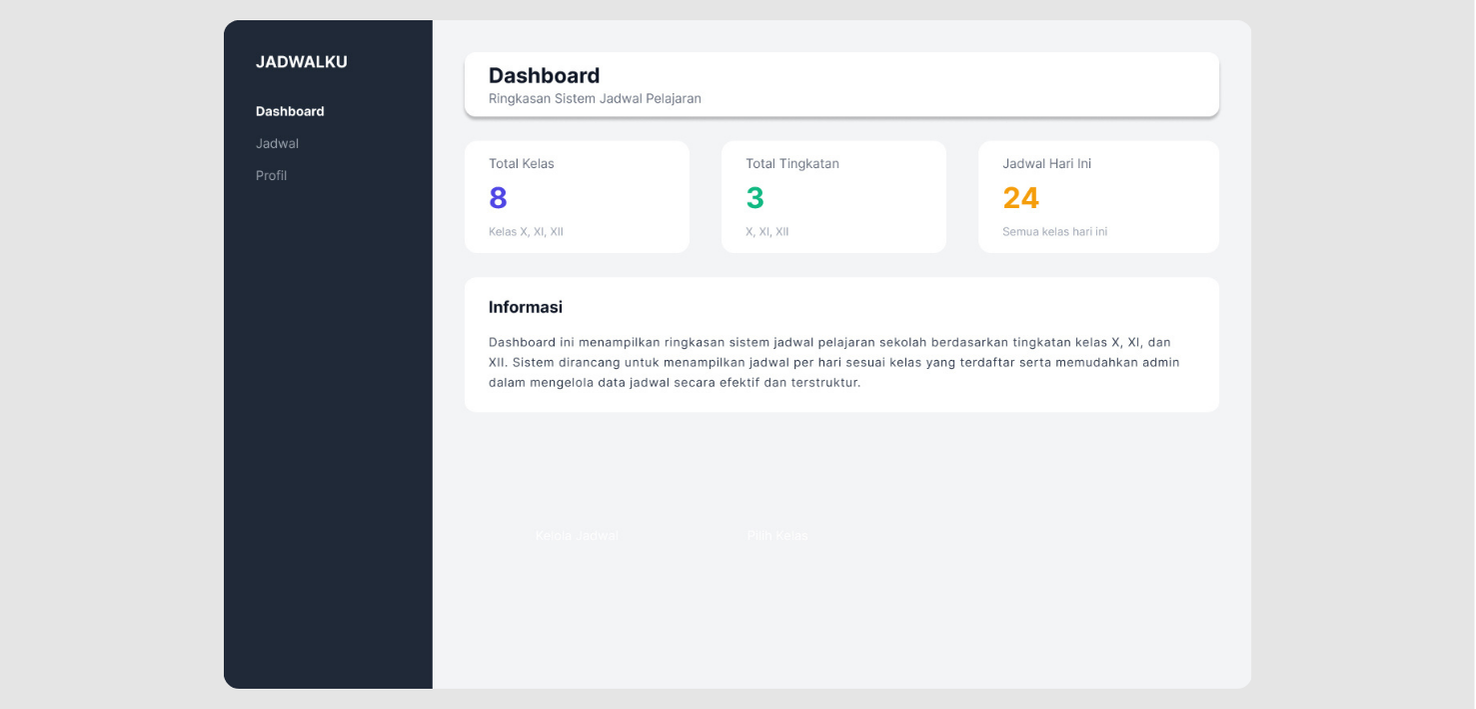
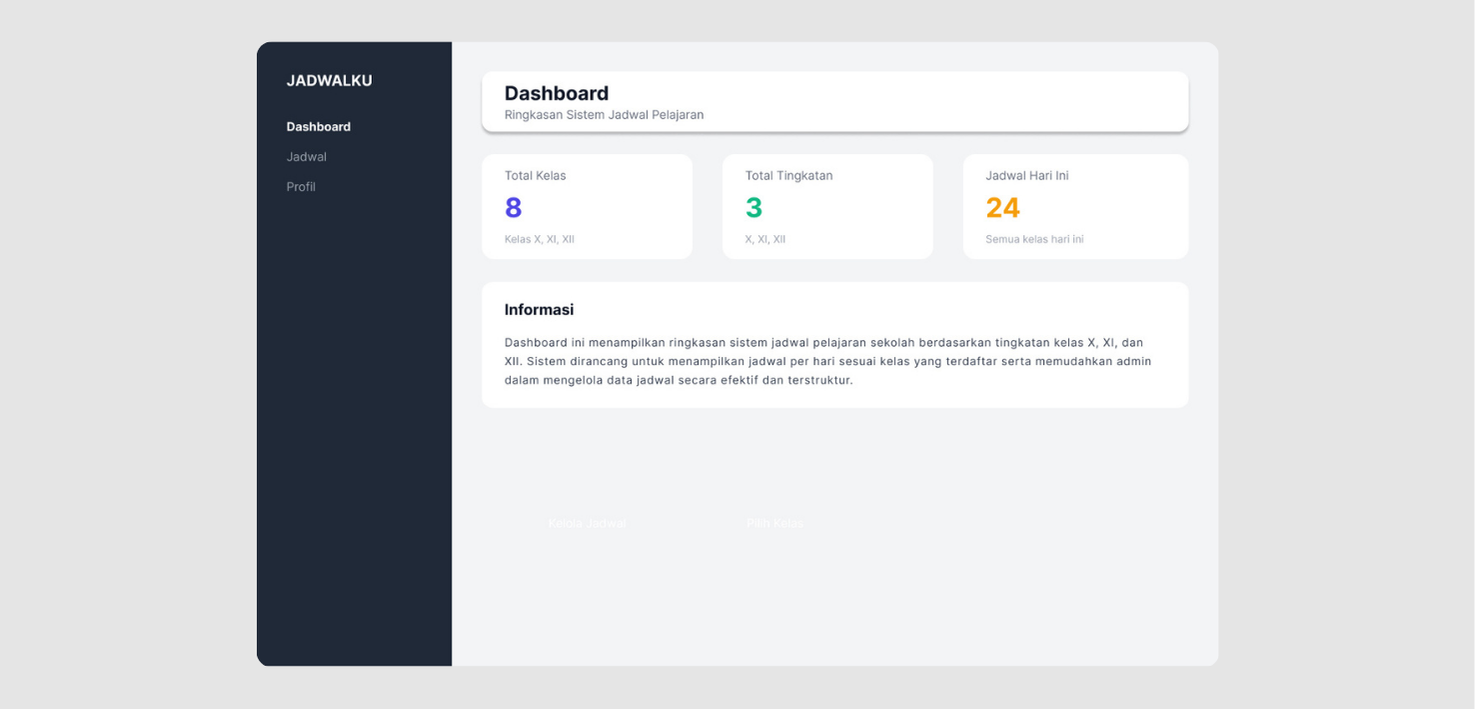
update hampir final

Changed region(s): [[0.1247, 0.031, 0.8103, 0.9929]]

diff --git a/index.html b/index.html
@@ -40,7 +40,7 @@
                         Halo, Saya <br> <span class="text-teal">Azmi Fauzil Adhim</span>
                     </h1>
                     <p class="fs-6 fs-md-5 text-muted">
-                        Siswa SMKS Mahaputra Cerdas Utama | <br>
+                        Siswa SMKS Mahaputra Cerdas Utama <br>
                         Jurusan Pengembangan Perangkat Lunak dan GIM (PPLG)
                     </p>
                 </div>
@@ -160,7 +160,7 @@
                 <div class="col-md-6">
                     <div class="project-card card-custom">
                         <div class="project-img-container p-0 overflow-hidden">
-                            <img src="dokProject/ecomeer.png" class="w-100 h-100 object-fit-cover" alt="E-Commerce"> 
+                            <img src="dokProject/ecomer.png" class="w-100 h-100 object-fit-cover" alt="E-Commerce"> 
                         </div>
                         <div class="project-content">
                             <h3 class="project-title">Desain Tampilan Website E-Commerce</h3>
@@ -171,7 +171,7 @@
                             <div class="tech-stack">
                                 <span class="tech-badge">UI/UX</span>
                             </div>
-                            <a href="LINK_WEBSITE_KAMU_DISINI" target="_blank" class="btn-view-project">
+                            <a href="https://www.figma.com/proto/yOlDAXEv6NXbb8kEjgWzmT/Tugas-Perancangan-UI----Azmi-Fauzil?node-id=2099-37&t=9BH8NqxHq38BFxPt-1" target="_blank" class="btn-view-project">
                                 Lihat Prototype <i class="fas fa-external-link-alt ms-1"></i>
                             </a>
                         </div>
@@ -181,7 +181,7 @@
                 <div class="col-md-6">
                     <div class="project-card card-custom">
                         <div class="project-img-container p-0 overflow-hidden">
-                            <img src="dokProject/pb.png" class="w-100 h-100 object-fit-cover" alt="Portfolio"> 
+                            <img src="dokProject/webstatis.png" class="w-100 h-100 object-fit-cover" alt="Portfolio"> 
                         </div>
                         <div class="project-content">
                             <h3 class="project-title">Website Statis</h3>
@@ -193,7 +193,7 @@
                                 <span class="tech-badge">HTML</span>
                                 <span class="tech-badge">Bootstrap</span>
                             </div>
-                            <a href="LINK_WEBSITE_KAMU_DISINI" target="_blank" class="btn-view-project">
+                            <a href="https://azmifauzil.github.io/Portofolio-bootsrapAzmiFA/" target="_blank" class="btn-view-project">
                                 Lihat Website <i class="fas fa-external-link-alt ms-1"></i>
                             </a>
                         </div>
@@ -203,7 +203,7 @@
                 <div class="col-md-6">
                     <div class="project-card card-custom">
                         <div class="project-img-container p-0 overflow-hidden">
-                            <img src="img/crud.jpg" class="w-100 h-100 object-fit-cover" alt="CRUD"> 
+                            <img src="dokProject/crudsiswa.png" class="w-100 h-100 object-fit-cover" alt="CRUD"> 
                         </div>
                         <div class="project-content">
                             <h3 class="project-title">Aplikasi CRUD Siswa</h3>
@@ -215,9 +215,9 @@
                                 <span class="tech-badge">MIT App Inventor</span>
                                 <span class="tech-badge">Firebase</span>
                             </div>
-                            <a href="LINK_WEBSITE_KAMU_DISINI" target="_blank" class="btn-view-project">
+                            <!-- <a href="" target="_blank" class="btn-view-project">
                                 Download Aplikasi <i class="fas fa-external-link-alt ms-1"></i>
-                            </a>
+                            </a> -->
                         </div>
                     </div>
                 </div>
@@ -225,7 +225,7 @@
                 <div class="col-md-6">
                     <div class="project-card card-custom">
                         <div class="project-img-container p-0 overflow-hidden">
-                            <img src="img/mathfun.jpg" class="w-100 h-100 object-fit-cover" alt="MathFun"> 
+                            <img src="dokProject/mathFun.png" class="w-100 h-100 object-fit-cover" alt="MathFun"> 
                         </div>
                         <div class="project-content">
                             <h3 class="project-title">Game MathFun</h3>
@@ -236,9 +236,9 @@
                             <div class="tech-stack">
                                 <span class="tech-badge">MIT App Inventor</span>
                             </div>
-                            <a href="LINK_WEBSITE_KAMU_DISINI" target="_blank" class="btn-view-project">
+                            <!-- <a href="" target="_blank" class="btn-view-project">
                                 Download Aplikasi <i class="fas fa-external-link-alt ms-1"></i>
-                            </a>
+                            </a> -->
                         </div>
                     </div>
                 </div>
@@ -246,7 +246,7 @@
                 <div class="col-md-6">
                     <div class="project-card card-custom">
                         <div class="project-img-container p-0 overflow-hidden">
-                            <img src="dokProject/goKantin.png" class="w-100 h-100 object-fit-cover" alt="Kantin"> 
+                            <img src="dokProject/gokantin.png" class="w-100 h-100 object-fit-cover" alt="Kantin"> 
                         </div>
                         <div class="project-content">
                             <h3 class="project-title">Aplikasi Kantin Sekolah</h3>
@@ -257,7 +257,7 @@
                             <div class="tech-stack">
                                 <span class="tech-badge">UI/UX</span>
                             </div>
-                            <a href="LINK_WEBSITE_KAMU_DISINI" target="_blank" class="btn-view-project">
+                            <a href="https://www.figma.com/proto/Zc9gd8KgqYBavtL7pCNtor/Tugas-UIUX-KIK-Azmi-Fauzil?node-id=0-1&t=z9fkG7e7XjcfUfKL-1" target="_blank" class="btn-view-project">
                                 Lihat Prototype <i class="fas fa-external-link-alt ms-1"></i>
                             </a>
                         </div>
@@ -278,7 +278,7 @@
                             <div class="tech-stack">
                                 <span class="tech-badge">UI/UX</span>
                             </div>
-                            <a href="LINK_WEBSITE_KAMU_DISINI" target="_blank" class="btn-view-project">
+                            <a href="https://www.figma.com/proto/gVj9m78ABd8zTfN7uHmEhq/sistem-jadwal-pelajarab?node-id=36-4&t=OUtFrzKVG3fEcMdV-1" target="_blank" class="btn-view-project">
                                 Lihat Prototype <i class="fas fa-external-link-alt ms-1"></i>
                             </a>
                         </div>
@@ -299,7 +299,7 @@
                             <div class="tech-stack">
                                 <span class="tech-badge">Wordpress</span>
                             </div>
-                            <a href="LINK_WEBSITE_KAMU_DISINI" target="_blank" class="btn-view-project">
+                            <a href="https://dev-sobatlapar.pantheonsite.io/" target="_blank" class="btn-view-project">
                                 Lihat Website <i class="fas fa-external-link-alt ms-1"></i>
                             </a>
                         </div>
@@ -309,7 +309,7 @@
                 <div class="col-md-6">
                     <div class="project-card card-custom">
                         <div class="project-img-container p-0 overflow-hidden">
-                            <img src="dokProject/lpSekolah.png" class="w-100 h-100 object-fit-cover" alt="Landing Page"> 
+                            <img src="dokProject/LPsekulah.png" class="w-100 h-100 object-fit-cover" alt="Landing Page"> 
                         </div>
                         <div class="project-content">
                             <h3 class="project-title">Landing Page Sekolah</h3>
@@ -320,7 +320,7 @@
                             <div class="tech-stack">
                                 <span class="tech-badge">UI/UX</span>
                             </div>
-                            <a href="LINK_WEBSITE_KAMU_DISINI" target="_blank" class="btn-view-project">
+                            <a href="https://www.figma.com/proto/GlimEtF0FYcUJO53Q7rZuy/landing-page?node-id=11-2&t=IaHZCJ5wXFHiY7AO-1" target="_blank" class="btn-view-project">
                                 Lihat Prototype <i class="fas fa-external-link-alt ms-1"></i>
                             </a>
                         </div>